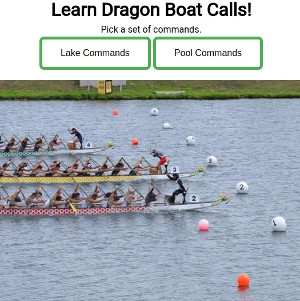
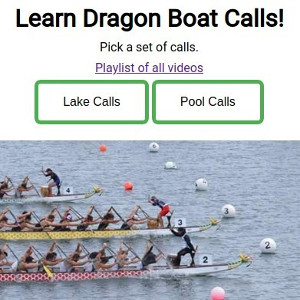
Update cv and db image

diff --git a/index.html b/index.html
@@ -5,7 +5,7 @@
     <meta charset="utf-8">
     <meta http-equiv="X-UA-Compatible" content="IE=edge">
     <meta name="viewport" content="width=device-width, initial-scale=1">
-    <title>My Portfolio</title>
+    <title>Fullchee's Portfolio</title>
     <link rel="shortcut icon" href="favicon.ico" type="image/x-icon">
     <link rel="icon" href="favicon.ico" type="image/x-icon">
     <link href="https://fonts.googleapis.com/css?family=Lato:300,400,700,900" rel="stylesheet">
@@ -31,6 +31,9 @@
             <!-- <li>
                 <a href="#experience">Experience</a>
             </li> -->
+            <li>
+                <a href="#current-work">Current Work</a>
+            </li>
             <li>
                 <a href="#projects">Projects</a>
             </li>
@@ -86,21 +89,60 @@
                 <!-- End .project-info -->
             </div>
             <!-- End .project -->
+            <div class="project shadow-large">
+                <div class="project-image">
+                    <a href="https://github.com/Fullchee/really-bad-chinese-chess">
+                        <img src="images/project.jpg" />
+                    </a>
+                </div>
+                <!-- End .project-image -->
+                <div class="project-info">
+                    <a href="https://github.com/Fullchee/really-bad-chinese-chess">
+                        <h3>Chinese Chess built with React</h3>
+                    </a>
+                    <ul>
+                        <li>Built with React</li>
+                        <li>Jest and React Testing Library for testing</li>
+                        <li>SCSS for styling</li>
+                    </ul>
+                    <!-- <a href="https://hidden-shore-40090.herokuapp.com/">View Project</a> -->
+                </div>
+                <!-- End .project-info -->
+            </div>
         </div>
     </div>
     </div>
     <!-- End #projects -->
-<!--     <div id="projects" class="background-alt">
+    <div id="projects" class="background-alt">
         <h2 class="heading">Projects</h2>
         <div class="container">
             <div class="row">
+                <div class="project shadow-large">
+                    <div class="project-image">
+                        <a href="https://fullchee.github.io/dragon-boat-calls">
+                            <img src="images/dragon-boat-calls.jpg" />
+                        </a>
+                    </div>
+                    <!-- End .project-image -->
+                    <div class="project-info">
+                        <a href="https://fullchee.github.io/dragon-boat-calls">
+                            <h3>Educational site on Dragon Boat Calls</h3>
+                        </a>
+                        <ul>
+                            <li>Static site for new paddlers to learn dragon boat calls with descriptions and videos</li>
+                        </ul>
+                        <a href="https://fullchee.github.io/dragon-boat-calls">View Project</a>
+                    </div>
+                    <!-- End .project-info -->
+                </div>
+                <!-- End .project -->
                 <div class="project shadow-large">
                     <div class="project-image">
                         <a href="https://hidden-shore-40090.herokuapp.com/">
                             <img src="images/car-detail-exchange-snapshot.jpg" />
                         </a>
                     </div>
-                    <!-- End .project-image - ->
+                    <!-- End .project-image -->
                     <div class="project-info">
                         <a href="https://hidden-shore-40090.herokuapp.com/">
                             <h3>Car Detail Exchange App</h3>
@@ -112,54 +154,34 @@
                         </ul>
                         <a href="https://hidden-shore-40090.herokuapp.com/">View Project</a>
                     </div>
-                    <!-- End .project-info - ->
+                    <!-- End .project-info -->
                 </div>
-                <!-- End .project - ->
+                <!-- End .project -->
                 <div class="project shadow-large">
                     <div class="project-image">
-                        <a href="https://fullchee.github.io/dragon-boat-calls">
+                        <a href="#">
                             <img src="images/project.jpg" />
                         </a>
                     </div>
-                    <!-- End .project-image - ->
+                    <!-- End .project-image -->
                     <div class="project-info">
-                        <h3>Built a router in C</h3>
+                        <h3>Created a software Router</h3>
                         <ul>
-                            <li>Developed a love of debugging with GDB</li>
+                            <li>Written in the C Language</li>
                             <li>Used a Linux Virtual Machine to program the router</li>
                             <li>Built with mininet to support TCP, ICMP and NAT</li>
                             <li>CSC458 Project</li>
                             <li>Nov 2016</li>
                         </ul>
                     </div>
-                    <!-- End .project-info - ->
+                    <!-- End .project-info -->
                 </div>
-                <!-- End .project - ->
-                <div class="project shadow-large">
-                    <div class="project-image">
-                        <a href="https://fullchee.github.io/dragon-boat-calls">
-                            <img src="images/dragon-boat-calls.jpg" />
-                        </a>
-                    </div>
-                    <!-- End .project-image - ->
-                    <div class="project-info">
-                        <a href="https://fullchee.github.io/dragon-boat-calls">
-                            <h3>Educational site on Dragon Boat Calls</h3>
-                        </a>
-                        <ul>
-                            <li>Static site with JavaScript to iterate through each dragon boat call description and corresponding video</li>
-                            <li>Dec 2017</li>
-                        </ul>
-                        <a href="https://fullchee.github.io/dragon-boat-calls">View Project</a>
-                    </div>
-                    <!-- End .project-info - ->
-                </div>
-                <!-- End .project - ->
+                <!-- End .project -->
                 <div class="project shadow-large">
                     <div class="project-image">
                         <img src="images/project.jpg" />
                     </div>
-                    <!-- End .project-image - ->
+                    <!-- End .project-image -->
                     <div class="project-info">
                         <h3>Implemented Online Prim's Algorithm</h3>
                         <ul>
@@ -167,16 +189,16 @@
                             <li>Measured the performance of the algorithm with respect to input size</li>
                         </ul>
                     </div>
-                    <!-- End .project-info - ->
+                    <!-- End .project-info -->
                 </div>
-                <!-- End .project - ->
+                <!-- End .project -->
                 <div class="project shadow-large">
                     <div class="project-image">
                         <a href="https://fullchee.github.io/delay-the-dark-era">
                             <img src="images/delay-the-dark-era.jpg" />
                         </a>
                     </div>
-                    <!-- End .project-image - ->
+                    <!-- End .project-image -->
                     <div class="project-info">
                         <a href="https://fullchee.github.io/delay-the-dark-era">
                             <h3>HTML5 Canvas Game</h3>
@@ -188,14 +210,14 @@
                         </ul>
                         <a href="https://fullchee.github.io/delay-the-dark-era">View Project</a>
                     </div>
-                    <!-- End .project-info - ->
+                    <!-- End .project-info -->
                 </div>
-                <!-- End .project - ->
+                <!-- End .project -->
                 <div class="project shadow-large">
                     <div class="project-image">
                         <img src="images/project.jpg" />
                     </div>
-                    <!-- End .project-image - ->
+                    <!-- End .project-image -->
                     <div class="project-info">
                         <h3>Java Object Oriented Terminal</h3>
                         <ul>
@@ -203,7 +225,7 @@
                             <li>Unit tested and documented the commands</li>
                         </ul>
                     </div>
-                    <!-- End .project-info - ->
+                    <!-- End .project-info -->
                 </div>
                 <!-- End .project -->
                 <!-- <div class="project shadow-large">
@@ -217,12 +239,12 @@
                             <li></li>
                         </ul>
                     </div>
-                    <!- - End .project-info - ->
+                    <!-- End .project-info - ->
                 </div> -->
-                <!-- End .project - ->
+                <!-- End .project -->
             </div>
         </div>
-    </div> -->
+    </div>
     <!-- End #projects -->
     <!-- <div id="relevant-courses">
         <h2 class="heading">Courses</h2>
@@ -252,6 +274,11 @@
     <!-- End #skills -->
     <div id="extra-curriculars">
         <h2 class="heading">Extra-Curriculars</h2>
+        <div class="education-block">
+            <h3><a href="#">University of Toronto Public Speaking Club (UTPS)</a></h3>
+            <span class="education-date">Sept 2018 - Apr. 2019</span>
+            <h4>Member</h4>
+        </div>
         <div class="education-block">
             <h3><a href="https://newdragons.ca">New Dragons (Dragon Boat)</a></h3>
             <span class="education-date">Sept 2014 - Aug. 2018</span>
